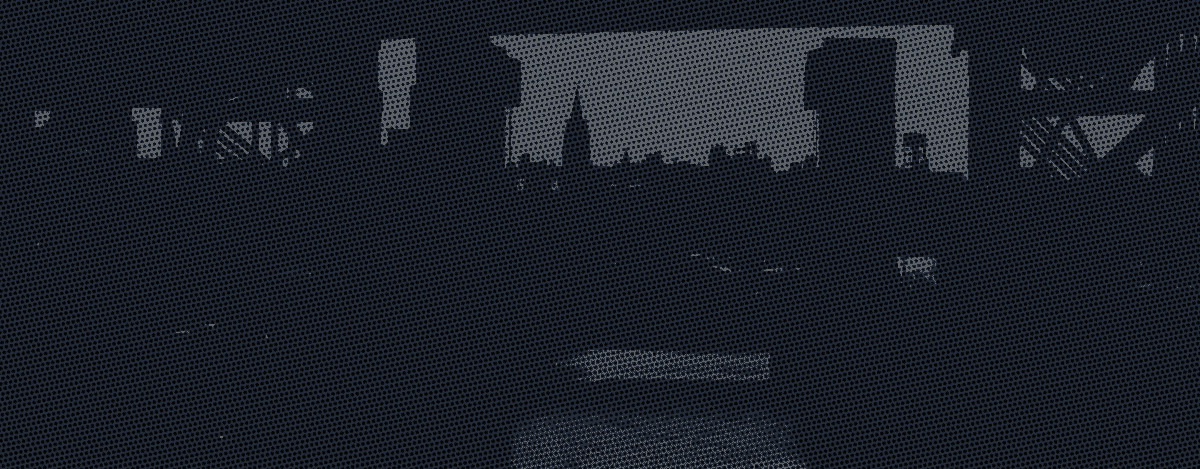
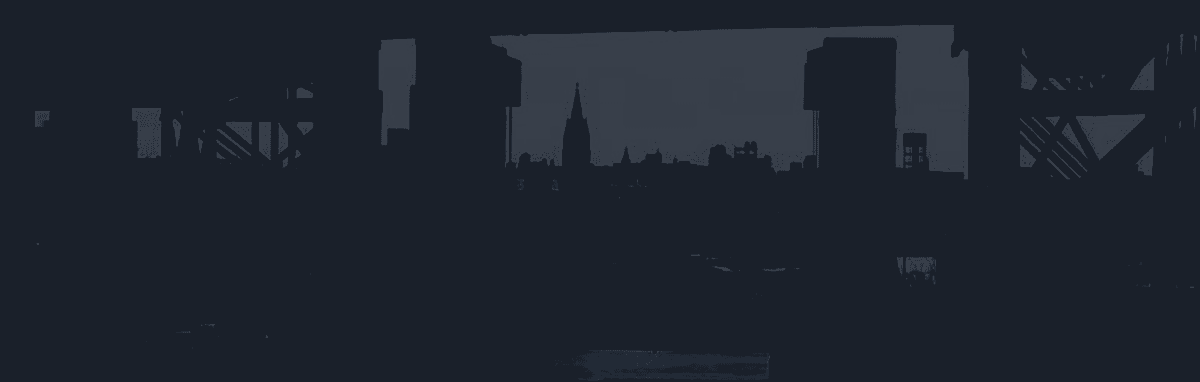
Updating hero images so they dont get all crappy at large scale

Changed region(s): [[0.0, 0.0, 1.0, 1.0]]

diff --git a/css/bytheskinofourteeth.css b/css/bytheskinofourteeth.css
@@ -1,1 +1,1 @@
-html,body,div,span,applet,object,iframe,h1,h2,h3,h4,h5,h6,p,blockquote,pre,a,abbr,acronym,address,big,cite,code,del,dfn,em,img,ins,kbd,q,s,samp,small,strike,strong,sub,sup,tt,var,b,u,i,center,dl,dt,dd,ol,ul,li,fieldset,form,label,legend,table,caption,tbody,tfoot,thead,tr,th,td,article,aside,canvas,details,embed,figure,figcaption,footer,header,hgroup,menu,nav,output,ruby,section,summary,time,mark,audio,video{margin:0;padding:0;border:0;font-size:100%;font:inherit;vertical-align:baseline}article,aside,details,figcaption,figure,footer,header,hgroup,menu,nav,section{display:block}body{line-height:1}ol,ul{list-style:none}blockquote,q{quotes:none}blockquote:before,blockquote:after,q:before,q:after{content:'';content:none}table{border-collapse:collapse;border-spacing:0}b,strong{font-weight:600}i,em{font-style:italic}hr{display:none}body{background-color:#fafafa;color:#3c444d;font-family:"proxima-nova", helvetica, arial, sans-serif;-webkit-font-smoothing:antialiased}a{color:blue}a:hover{background-color:rgba(173,216,230,0.5)}::selection{background-color:#68b081;color:#f1f1f1}@media only screen and (-webkit-min-device-pixel-ratio: 1.5), only screen and (-o-min-device-pixel-ratio: 3 / 2), only screen and (min--moz-device-pixel-ratio: 1.5), only screen and (min-device-pixel-ratio: 1.5){body:after{content:"high-dpi";display:none}}[role="banner"]{background-color:#fafafa;color:#f1f1f1;max-width:992px;overflow:hidden;padding-top:0.8em;text-align:center}[role="banner"] h1 a:hover{background-color:transparent}@media screen and (min-width: 630px){[role="banner"]{margin:0 auto;padding-top:0;width:95%}[role="banner"] h1{display:inline-block;float:left;margin-top:0.65em}}.nav-main{border-top:1px solid #f2f2f2;margin-top:0.5em}.nav-main a{color:#03080f;display:block;letter-spacing:0.1em;padding:0.6em 0;text-decoration:none;text-transform:uppercase;width:100%}.nav-main a:hover{background-color:#f2f2f2;color:blue}.nav-main li:last-child a{background-color:#68b081;color:#f1f1f1;font-weight:600}.nav-main li:last-child a:hover{background-color:#57a773}@media screen and (min-width: 630px){.nav-main{border-top:0;display:inline-block;float:right;margin-top:0}.nav-main li{float:left;margin-left:0.9em}.nav-main a{display:inline-block;padding:1.4em 0.8em 1.3em 0.8em;width:auto}.nav-main a:hover{background-color:transparent}}.page-details [href*="details"],.page-location [href*="location"]{background-color:#f2f2f2;color:blue}@media screen and (min-width: 630px){.page-details [href*="details"],.page-location [href*="location"]{background-color:transparent}}[role="contentinfo"]{border-top:1px solid #e9e9e9;margin:1em auto 0 auto;padding:1.8em 0;text-align:center;width:95%}.hero{background:#232b38 url('../images/hero-bg-01.png?1346418661') no-repeat center 30%;-webkit-background-size:200%;-moz-background-size:200%;-o-background-size:200%;background-size:200%;color:#fff;padding:1.2em 1em 1.4em 1em;text-align:center}.hero h1{font-family:"kulturista-web", helvetica, arial, sans-serif;font-size:2em;font-weight:400;line-height:1.2;margin:0 auto;max-width:992px}.hero p{color:#ebebeb;font-size:1.2em;line-height:1.2;margin:0 auto;max-width:990px;width:80%}.hero h2{background-color:#68b081;display:inline-block;font-size:1.2em;font-style:italic;letter-spacing:0.1em;margin-top:1em;text-transform:uppercase}.hero h2 sup{font-size:0.6em;vertical-align:super}.hero h2 span{display:block;padding:0 0.2em}.page-details .hero{background-image:url('../images/hero-bg-02.png?1346418673')}.page-location .hero{background-image:url('../images/hero-bg-03.png?1346418674')}@media screen and (min-width: 630px){.hero{-webkit-background-size:120%;-moz-background-size:120%;-o-background-size:120%;background-size:120%;padding:2em 1em 2.2em 1em}.hero h1{font-size:2.6em}.hero p{font-size:1.7em}.page-home .hero{-webkit-background-size:180%;-moz-background-size:180%;-o-background-size:180%;background-size:180%;padding:3em 1em 3.2em 1em}.page-home .hero h1{font-size:3.6em}.page-home .hero h2{font-size:1.6em}}@media screen and (min-width: 960px){.page-home .hero{-webkit-background-size:120%;-moz-background-size:120%;-o-background-size:120%;background-size:120%}}@media screen and (min-width: 1000px){.hero{-webkit-background-size:100%;-moz-background-size:100%;-o-background-size:100%;background-size:100%}}[role="main"]{margin:0 auto;max-width:992px;padding-top:1.6em;width:90%}[role="main"] h1{background-color:#1f2530;border-left:1px solid #fafafa;box-shadow:-3px 0 0 #1f2530;color:#fff;display:inline-block;font-size:1.1em;font-weight:300;line-height:1.2;margin:0.9em 0 0.5em 0;padding:0 0.25em;text-transform:uppercase}[role="main"] section{line-height:1.35;overflow:hidden;padding:0em 0 2.5em 0;text-align:left}[role="main"] section>div{margin-bottom:1.4em}[role="main"] section img{box-shadow:-3px 3px 0 #e9e9e9;display:block;height:auto;width:100%}@media screen and (min-width: 630px){[role="main"] section{padding:1.3em 0 1.6em 0;text-align:right}[role="main"] section>div{float:left;margin-bottom:0;width:43.85081%}[role="main"] section img{float:right;width:51.10887%}}#sponsors{background-color:#202632;margin:1em auto 2em auto;max-width:992px;text-align:center;width:90%}#sponsors h1{color:#fff;font-family:"kulturista-web", helvetica, arial, sans-serif;font-size:1.6em;font-weight:400;padding:0.6em 0}#sponsors ul{margin:0.5em 0;overflow:hidden}#sponsors li{-webkit-box-sizing:border-box;-moz-box-sizing:border-box;box-sizing:border-box;margin:0 auto 0.8em auto;position:relative;width:95%}#sponsors li:before{font-size:0.75em;padding:0 0.1em;position:absolute;text-align:left;text-transform:uppercase}#sponsors li.level-gold:before{background-color:gold;content:"Gold"}#sponsors li.placeholder{background-color:#181c25;padding:0.5em}#sponsors li a{background-color:#181c25;display:block;padding:0.5em}#sponsors li a:hover{background-color:#101319}#sponsors li img{display:block;height:auto;width:100%}#sponsors p{background-color:#1b202a;clear:both;color:#b2b8c3;font-size:0.9em;line-height:1.3;margin-top:0.6em;padding:0.5em 1em;text-align:right}#sponsors p a{color:#4773ca;text-decoration:none}#sponsors p a:hover{background-color:#252c3a}@media screen and (min-width: 600px){#sponsors li{float:left;margin-left:4.03226%;width:43.85081%}#sponsors li:nth-child(2n){margin-left:0;margin-right:4.03226%;float:right}#sponsors p{margin-top:1.6em}}.subway-lines{border-top:1px solid #e9e9e9;margin-top:1.2em;padding-top:0.8em}.subway-lines li{margin:0.5em 0}.line{border-radius:1em;display:inline-block;font-family:helvetica, sans-serif;font-size:0.8em;height:1.4em;text-align:center;width:1.4em}.r{background-color:#fddd00;color:#000}.f,.g{color:#fff}.f{background-color:#FC9508}.g{background-color:#94C600}
+html,body,div,span,applet,object,iframe,h1,h2,h3,h4,h5,h6,p,blockquote,pre,a,abbr,acronym,address,big,cite,code,del,dfn,em,img,ins,kbd,q,s,samp,small,strike,strong,sub,sup,tt,var,b,u,i,center,dl,dt,dd,ol,ul,li,fieldset,form,label,legend,table,caption,tbody,tfoot,thead,tr,th,td,article,aside,canvas,details,embed,figure,figcaption,footer,header,hgroup,menu,nav,output,ruby,section,summary,time,mark,audio,video{margin:0;padding:0;border:0;font-size:100%;font:inherit;vertical-align:baseline}article,aside,details,figcaption,figure,footer,header,hgroup,menu,nav,section{display:block}body{line-height:1}ol,ul{list-style:none}blockquote,q{quotes:none}blockquote:before,blockquote:after,q:before,q:after{content:'';content:none}table{border-collapse:collapse;border-spacing:0}b,strong{font-weight:600}i,em{font-style:italic}hr{display:none}body{background-color:#fafafa;color:#3c444d;font-family:"proxima-nova", helvetica, arial, sans-serif;-webkit-font-smoothing:antialiased}a{color:blue}a:hover{background-color:rgba(173,216,230,0.5)}::selection{background-color:#68b081;color:#f1f1f1}@media only screen and (-webkit-min-device-pixel-ratio: 1.5), only screen and (-o-min-device-pixel-ratio: 3 / 2), only screen and (min--moz-device-pixel-ratio: 1.5), only screen and (min-device-pixel-ratio: 1.5){body:after{content:"high-dpi";display:none}}[role="banner"]{background-color:#fafafa;color:#f1f1f1;max-width:992px;overflow:hidden;padding-top:0.8em;text-align:center}[role="banner"] h1 a:hover{background-color:transparent}@media screen and (min-width: 630px){[role="banner"]{margin:0 auto;padding-top:0;width:95%}[role="banner"] h1{display:inline-block;float:left;margin-top:0.65em}}.nav-main{border-top:1px solid #f2f2f2;margin-top:0.5em}.nav-main a{color:#03080f;display:block;letter-spacing:0.1em;padding:0.6em 0;text-decoration:none;text-transform:uppercase;width:100%}.nav-main a:hover{background-color:#f2f2f2;color:blue}.nav-main li:last-child a{background-color:#68b081;color:#f1f1f1;font-weight:600}.nav-main li:last-child a:hover{background-color:#57a773}@media screen and (min-width: 630px){.nav-main{border-top:0;display:inline-block;float:right;margin-top:0}.nav-main li{float:left;margin-left:0.9em}.nav-main a{display:inline-block;padding:1.4em 0.8em 1.3em 0.8em;width:auto}.nav-main a:hover{background-color:transparent}}.page-details [href*="details"],.page-location [href*="location"]{background-color:#f2f2f2;color:blue}@media screen and (min-width: 630px){.page-details [href*="details"],.page-location [href*="location"]{background-color:transparent}}[role="contentinfo"]{border-top:1px solid #e9e9e9;margin:1em auto 0 auto;padding:1.8em 0;text-align:center;width:95%}.hero{background-color:#3c434e;background-image:url('../images/hero-bg-tile.png?1346761991'),url('../images/hero-bg-01.png?1346761894');background-repeat:repeat, no-repeat;background-position:30% 30%, center 30%;-webkit-background-size:auto,200% auto;-moz-background-size:auto,200% auto;-o-background-size:auto,200% auto;background-size:auto,200% auto;color:#fff;padding:1.2em 1em 1.4em 1em;text-align:center}.hero h1{font-family:"kulturista-web", helvetica, arial, sans-serif;font-size:2em;font-weight:400;line-height:1.2;margin:0 auto;max-width:992px}.hero p{color:#ebebeb;font-size:1.2em;line-height:1.2;margin:0 auto;max-width:990px;width:80%}.hero h2{background-color:#68b081;display:inline-block;font-size:1.2em;font-style:italic;letter-spacing:0.1em;margin-top:1em;text-transform:uppercase}.hero h2 sup{font-size:0.6em;vertical-align:super}.hero h2 span{display:block;padding:0 0.2em}.page-details .hero{background-image:url('../images/hero-bg-tile.png?1346761991'),url('../images/hero-bg-02.png?1346762919')}.page-location .hero{background-image:url('../images/hero-bg-tile.png?1346761991'),url('../images/hero-bg-03.png?1346763188')}@media screen and (min-width: 630px){.hero{-webkit-background-size:auto,120% auto;-moz-background-size:auto,120% auto;-o-background-size:auto,120% auto;background-size:auto,120% auto;padding:2em 1em 2.2em 1em}.hero h1{font-size:2.6em}.hero p{font-size:1.7em}.page-home .hero{-webkit-background-size:auto,180% auto;-moz-background-size:auto,180% auto;-o-background-size:auto,180% auto;background-size:auto,180% auto;padding:3em 1em 3.2em 1em}.page-home .hero h1{font-size:3.6em}.page-home .hero h2{font-size:1.6em}}@media screen and (min-width: 960px){.page-home .hero{-webkit-background-size:auto,100% auto;-moz-background-size:auto,100% auto;-o-background-size:auto,100% auto;background-size:auto,100% auto}}@media screen and (min-width: 1000px){.hero{-webkit-background-size:auto,100% auto;-moz-background-size:auto,100% auto;-o-background-size:auto,100% auto;background-size:auto,100% auto}}[role="main"]{margin:0 auto;max-width:992px;padding-top:1.6em;width:90%}[role="main"] h1{background-color:#1f2530;border-left:1px solid #fafafa;box-shadow:-3px 0 0 #1f2530;color:#fff;display:inline-block;font-size:1.1em;font-weight:300;line-height:1.2;margin:0.9em 0 0.5em 0;padding:0 0.25em;text-transform:uppercase}[role="main"] section{line-height:1.35;overflow:hidden;padding:0em 0 2.5em 0;text-align:left}[role="main"] section>div{margin-bottom:1.4em}[role="main"] section img{box-shadow:-3px 3px 0 #e9e9e9;display:block;height:auto;width:100%}@media screen and (min-width: 630px){[role="main"] section{padding:1.3em 0 1.6em 0;text-align:right}[role="main"] section>div{float:left;margin-bottom:0;width:43.85081%}[role="main"] section img{float:right;width:51.10887%}}#sponsors{background-color:#202632;margin:1em auto 2em auto;max-width:992px;text-align:center;width:90%}#sponsors h1{color:#fff;font-family:"kulturista-web", helvetica, arial, sans-serif;font-size:1.6em;font-weight:400;padding:0.6em 0}#sponsors ul{margin:0.5em 0;overflow:hidden}#sponsors li{-webkit-box-sizing:border-box;-moz-box-sizing:border-box;box-sizing:border-box;margin:0 auto 0.8em auto;position:relative;width:95%}#sponsors li:before{font-size:0.75em;padding:0 0.1em;position:absolute;text-align:left;text-transform:uppercase}#sponsors li.level-gold:before{background-color:gold;content:"Gold"}#sponsors li.placeholder{background-color:#181c25;padding:0.5em}#sponsors li a{background-color:#181c25;display:block;padding:0.5em}#sponsors li a:hover{background-color:#101319}#sponsors li img{display:block;height:auto;width:100%}#sponsors p{background-color:#1b202a;clear:both;color:#b2b8c3;font-size:0.9em;line-height:1.3;margin-top:0.6em;padding:0.5em 1em;text-align:right}#sponsors p a{color:#4773ca;text-decoration:none}#sponsors p a:hover{background-color:#252c3a}@media screen and (min-width: 600px){#sponsors li{float:left;margin-left:4.03226%;width:43.85081%}#sponsors li:nth-child(2n){margin-left:0;margin-right:4.03226%;float:right}#sponsors p{margin-top:1.6em}}.subway-lines{border-top:1px solid #e9e9e9;margin-top:1.2em;padding-top:0.8em}.subway-lines li{margin:0.5em 0}.line{border-radius:1em;display:inline-block;font-family:helvetica, sans-serif;font-size:0.8em;height:1.4em;text-align:center;width:1.4em}.r{background-color:#fddd00;color:#000}.f,.g{color:#fff}.f{background-color:#FC9508}.g{background-color:#94C600}

diff --git a/css/scss/modules/_hero.scss b/css/scss/modules/_hero.scss
@@ -17,8 +17,12 @@
 }
 
 .hero {
-    background: #232b38 image-url("hero-bg-01.png") no-repeat center 30%;
-    @include background-size("200%");
+    background-color: #3c434e;
+    background-image: image-url("hero-bg-tile.png"),
+        image-url("hero-bg-01.png");
+    background-repeat: repeat, no-repeat;
+    background-position: 30% 30%, center 30%;
+    @include background-size(auto, 200% auto);
     color: #fff;
     padding: 1.2em 1em 1.4em 1em;
     text-align: center;
@@ -62,15 +66,17 @@
     }
 
     @include details-hero {
-        background-image: image-url("hero-bg-02.png");
+        background-image: image-url("hero-bg-tile.png"),
+            image-url("hero-bg-02.png");
     }
 
     @include location-hero {
-        background-image: image-url("hero-bg-03.png");
+        background-image: image-url("hero-bg-tile.png"),
+            image-url("hero-bg-03.png");
     }
 
     @media screen and (min-width: 630px) {
-        @include background-size("120%");
+        @include background-size(auto, 120% auto);
         padding: 2em 1em 2.2em 1em;
 
         h1 {
@@ -82,7 +88,7 @@
         }
 
         @include home-hero {
-            @include background-size("180%");
+            @include background-size(auto, 180% auto);
             padding: 3em 1em 3.2em 1em;
 
             h1 {
@@ -97,11 +103,11 @@
 
     @media screen and (min-width: 960px) {
         @include home-hero {
-            @include background-size("120%");
+            @include background-size(auto, 100% auto);
         }
     }
 
     @media screen and (min-width: 1000px) {
-        @include background-size("100%");
+        @include background-size(auto, 100% auto);
     }
 }
